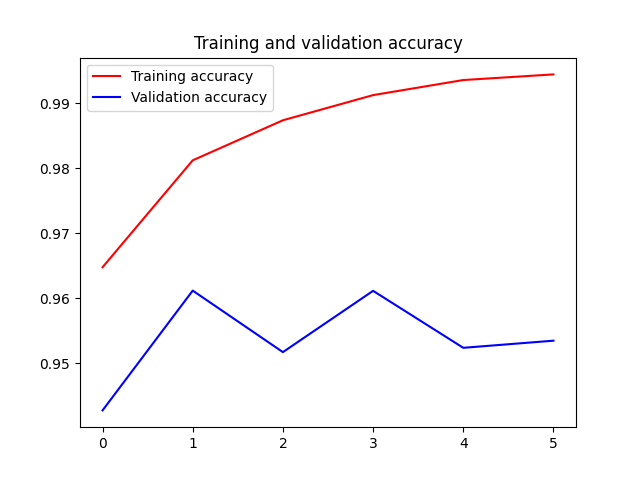
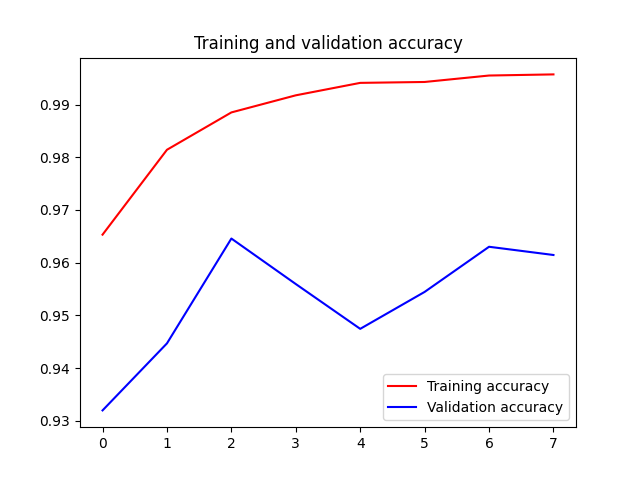
Set up for console command training ready

diff --git a/MultiClassClassifier/multiclass_classifier_augmentation.py b/MultiClassClassifier/multiclass_classifier_augmentation.py
@@ -1,10 +1,10 @@
 import tensorflow as tf
 from tensorflow.keras.preprocessing.image import ImageDataGenerator
-from tensorflow.keras.optimizers import Adam
+from tensorflow.keras.optimizers import Adam, RMSprop
 from tensorflow.python.keras.callbacks import ModelCheckpoint, EarlyStopping
 
 
-class MultiClassClassifierNoAugmentation:
+class MultiClassClassifierAugmentation:
     def __init__(self, t_path='./dataset/train',
                  v_path='./dataset/validation',
                  i_size=(150, 150)):
@@ -16,7 +16,13 @@ class MultiClassClassifierNoAugmentation:
         self.model = None
 
     def set_up_data_generator(self, b_size=32):
-        train_data_generator = ImageDataGenerator(rescale=1. / 255.)
+        train_data_generator = ImageDataGenerator(rescale=1. / 255.,
+                                                  rotation_range=30,
+                                                  shear_range=0.2,
+                                                  zoom_range=0.3,
+                                                  brightness_range=[0.2, 1.0],
+                                                  horizontal_flip=True,
+                                                  fill_mode='nearest')
         self.train_generator = train_data_generator.flow_from_directory(self.train_path,
                                                                         batch_size=b_size,
                                                                         class_mode='categorical',
@@ -38,6 +44,7 @@ class MultiClassClassifierNoAugmentation:
             tf.keras.layers.MaxPooling2D(2, 2),
             tf.keras.layers.Conv2D(64, (3, 3), activation='relu'),
             tf.keras.layers.MaxPooling2D(2, 2),
+
             tf.keras.layers.Flatten(),
             tf.keras.layers.Dense(512, activation='relu'),
             tf.keras.layers.Dense(num_classes, activation='softmax')
@@ -45,15 +52,39 @@ class MultiClassClassifierNoAugmentation:
 
         self.model.compile(optimizer=opt, loss='categorical_crossentropy', metrics=['accuracy'])
 
-    def train(self, epochs=100, verbose=1, steps_per_epoch=True, architecture_ver='v1'):
+    def define_model_architecture_v2(self, num_classes=9, opt=Adam(learning_rate=0.001)):
+        self.input_size += (3,)
+        print('Model input size:', self.input_size)
+        self.model = tf.keras.models.Sequential([
+            tf.keras.layers.Conv2D(64, (3, 3), activation='relu', input_shape=self.input_size),
+            tf.keras.layers.MaxPooling2D(2, 2),
+            tf.keras.layers.Conv2D(64, (3, 3), activation='relu'),
+            tf.keras.layers.MaxPooling2D(2, 2),
+            tf.keras.layers.Conv2D(128, (3, 3), activation='relu'),
+            tf.keras.layers.MaxPooling2D(2, 2),
+            tf.keras.layers.Conv2D(128, (3, 3), activation='relu'),
+            tf.keras.layers.MaxPooling2D(2, 2),
+            tf.keras.layers.Conv2D(512, (3, 3), activation='relu'),
+            tf.keras.layers.MaxPooling2D(2, 2),
+
+            tf.keras.layers.Flatten(),
+            tf.keras.layers.Dropout(0.2),
+            tf.keras.layers.Dense(1024, activation='relu'),
+            tf.keras.layers.Dense(num_classes, activation='softmax')
+        ])
+
+        self.model.compile(optimizer=opt, loss='categorical_crossentropy', metrics=['accuracy'])
+
+    def train(self, epochs=25, verbose=1, steps_per_epoch=True, architecture_ver='v2'):
         history = None
         if self.model is not None and self.train_generator is not None and self.validation_generator is not None:
             if steps_per_epoch:
                 history = self.model.fit(self.train_generator,
                                          epochs=epochs,
+                                         steps_per_epoch=100,
                                          verbose=verbose,
                                          validation_data=self.validation_generator,
-                                         callbacks=[ModelCheckpoint('./models/multiclass_no_augmentation_' + str(self.input_size) + '_' + architecture_ver + '_save.h5',
+                                         callbacks=[ModelCheckpoint('./models/multiclass_augmentation_' + str(self.input_size) + '_' + architecture_ver + '_spe_save.h5',
                                                                     monitor='val_loss',
                                                                     mode='min',
                                                                     save_best_only=True,
@@ -61,17 +92,16 @@ class MultiClassClassifierNoAugmentation:
                                                     EarlyStopping(
                                                         monitor='val_loss',
                                                         mode='min',
-                                                        patience=5,
-                                                        min_delta=0.05,
+                                                        patience=6,
+                                                        min_delta=0.005,
                                                         verbose=1)
                                                     ])
             else:
                 history = self.model.fit(self.train_generator,
                                          epochs=epochs,
-                                         steps_per_epoch=100,
                                          verbose=verbose,
                                          validation_data=self.validation_generator,
-                                         callbacks=[ModelCheckpoint('./models/multiclass_no_augmentation_' + str(self.input_size) + '_' + architecture_ver + '_spe_save.h5',
+                                         callbacks=[ModelCheckpoint('./models/multiclass_augmentation_' + str(self.input_size) + '_' + architecture_ver + '_save.h5',
                                                                     monitor='val_loss',
                                                                     mode='min',
                                                                     save_best_only=True,
@@ -79,11 +109,11 @@ class MultiClassClassifierNoAugmentation:
                                                     EarlyStopping(
                                                         monitor='val_loss',
                                                         mode='min',
-                                                        patience=5,
-                                                        min_delta=0.05,
+                                                        patience=6,
+                                                        min_delta=0.005,
                                                         verbose=1)
                                                     ])
         return history
 
-    def predict(self):
+    def evaluate(self):
         print('Model score:', self.model.evaluate(self.validation_generator))

diff --git a/main.py b/main.py
@@ -1,5 +1,6 @@
 import argparse
 from MultiClassClassifier.multiclass_classifier_no_augmentation import *
+from MultiClassClassifier.multiclass_classifier_augmentation import *
 from DeepLearningUtilities.metrics_analyzer import *
 
 if __name__ == '__main__':
@@ -15,25 +16,66 @@ if __name__ == '__main__':
 
     args = parser.parse_args()
     dnn = None
+    model_ver = None
+    spe = True
 
     # Instantiate a custom DNN to train
     if args.dnn == 'MCNA':
         dnn = MultiClassClassifierNoAugmentation()  # Instantiate HERE
+        model_ver = 'v1'
+    elif args.dnn == 'MCA':
+        dnn = MultiClassClassifierAugmentation()
+        model_ver = 'v1'
+    elif args.dnn == 'MCA-v1-150x150_input_size':
+        dnn = MultiClassClassifierAugmentation(i_size=(150, 150))
+        model_ver = 'v1'
+        spe = False
+    elif args.dnn == 'MCA-v1-150x150_input_size-spe':
+        dnn = MultiClassClassifierAugmentation(i_size=(150, 150))
+        model_ver = 'v1'
+        spe = True
+    elif args.dnn == 'MCA-v1-224x224_input_size':
+        dnn = MultiClassClassifierAugmentation(i_size=(224, 224))
+        model_ver = 'v1'
+        spe = False
+    elif args.dnn == 'MCA-v1-224x224_input_size-spe':
+        dnn = MultiClassClassifierAugmentation(i_size=(224, 224))
+        model_ver = 'v1'
+        spe = True
+    elif args.dnn == 'MCA-v2-150x150_input_size':
+        dnn = MultiClassClassifierAugmentation(i_size=(150, 150))
+        model_ver = 'v2'
+        spe = False
+    elif args.dnn == 'MCA-v2-150x150_input_size-spe':
+        dnn = MultiClassClassifierAugmentation(i_size=(150, 150))
+        model_ver = 'v2'
+        spe = True
+    elif args.dnn == 'MCA-v2-224x224_input_size':
+        dnn = MultiClassClassifierAugmentation(i_size=(224, 224))
+        model_ver = 'v2'
+        spe = False
+    elif args.dnn == 'MCA-v2-224x224_input_size-spe':
+        dnn = MultiClassClassifierAugmentation(i_size=(224, 224))
+        model_ver = 'v2'
+        spe = True
     else:
         raise ValueError('Wrong DNN type :(')
 
-    if dnn is not None:
+    if dnn is not None and model_ver is not None:
         # Set up data generator for pre processing the images and fixing batch size
         dnn.set_up_data_generator()
 
         # Model architecture definition and compilation
-        dnn.define_model_architecture()
+        if model_ver == 'v1':
+            dnn.define_model_architecture_v1()
+        elif model_ver == 'v2':
+            dnn.define_model_architecture_v2()
 
         # Train the DNN
-        h = dnn.train(epochs=500)
+        h = dnn.train(epochs=50, steps_per_epoch=spe, architecture_ver=model_ver)
 
         # Plot metrics from training when finished
         plot_metrics_legend(history=h, case=args.dnn)
 
-        # Predict on some images to test the functionality of
-        # dnn.predict()
+        # Evaluate the model to get the loss value and the metrics values of the model in validation
+        dnn.evaluate()

diff --git a/DeepLearningUtilities/metrics_analyzer.py b/DeepLearningUtilities/metrics_analyzer.py
@@ -49,11 +49,11 @@ def plot_metrics_legend(history, case):
         plt.plot(epochs, val_accuracy, 'b', label='Validation accuracy')
         plt.title('Training and validation accuracy')
         plt.legend()
-        accuracy_plot.savefig('./metrics/' + case + '/' + 'Trainig and Validation Accuracy MultiClassClassifier No Augmentation.png')
+        accuracy_plot.savefig('./metrics/' + case + '/' + 'Train and Validation Accuracy MultiClassClassifier.png')
 
         loss_plot = plt.figure()
         plt.plot(epochs, loss, 'r', label='Training Loss')
         plt.plot(epochs, val_loss, 'b', label='Validation Loss')
         plt.title('Training and validation loss')
         plt.legend()
-        loss_plot.savefig('./metrics/' + case + '/' + 'Trainig and Validation Loss MultiClassClassifier No Augmentation.png')
+        loss_plot.savefig('./metrics/' + case + '/' + 'Train and Validation Loss MultiClassClassifier.png')
